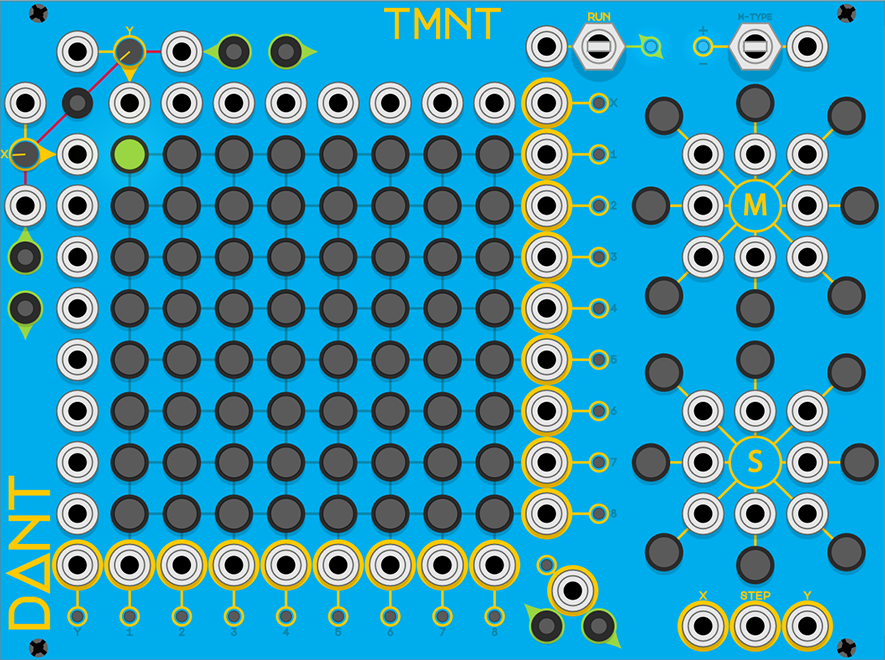
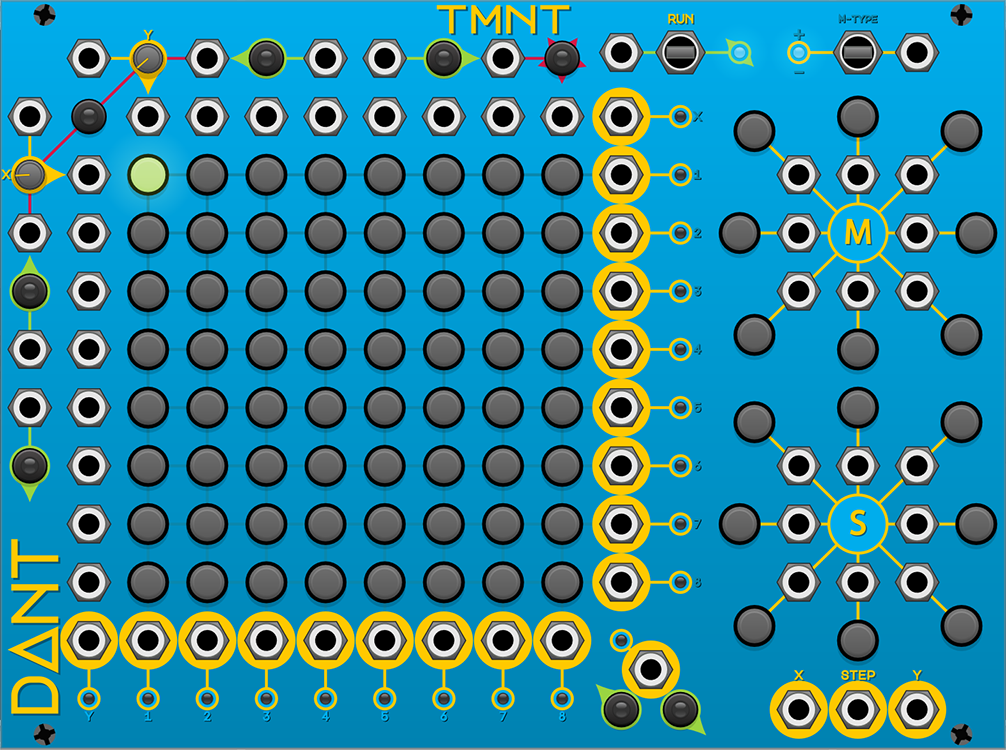
VCV Rack 2 docs update

diff --git a/billyg8s.md b/billyg8s.md
@@ -1,0 +1,36 @@
+# Billy G8s
+
+* [Overview](#overview)
+* [Basic Operation](#basic-operation)
+
+## Overview
+
+**10hp**
+
+Billy G8s is a 5 channel gate generator.
+
+![Billy G8s](img/billyg8s.png)
+
+## Basic Operation
+
+Send any signal to the channel inputs, the inputs are normalised down (so channels with no input will receive the input from the channel above).
+
+Use the **Threshold parameter** to set the value above which gates are generated. The default is `0.1 volts`.
+
+The voltage of the output gates will be the **Level parameter** `+` **Offset parameter**. Setting a negative Level and a positive Offset will created inverted gates for example.
+
+Each channel has a **Length parameter** which controls the length of the gate generated in samples. For example, at a sample rate of `44.1 kHz` the default parameter value of `4410 samples` would generate gates of `100 milliseconds`.
+
+Each channel has a **Slope Length** & **Slope Shape** parameter. These control the edges of the gate, increasing the slope length will create a pseudo-envelope, that is symmetrical when the gate length is greater or equal to the slope length.
+
+The length of a gate covers the start slope, but not the end slope. A gate is considered `active` during the start slope and length only. So the total gate length is equal to the gate length `+` the slope length.
+
+Each channel has an End Trigger input, when this receives a signal above `0 volts` it will end any currently active gate being generated by that channel.
+
+If the slope length is greater than the slope length, or the gate is ended early, the start slope will be truncated, the gate will jump to the level parameter value, then follow the end slope.
+
+When a gate ends, if the input signal remains above the threshold value, a new gate will begin immediately. Note: with small Slope Lengths, this gap between gates will be inaudible.
+
+The shape of the slope will be linear at `0 volts`, tend towards exponential at `-1 volt` and tend towards logarithmic at `1 volt`.
+
+The **AND** output will generate a gate when all channels have an active gate, the **OR** output will generate a gate when at least one channel has an active gate. The **AND** & **OR** output gates do not have slopes.

diff --git a/CHANGELOG.md b/CHANGELOG.md
@@ -1,5 +1,32 @@
 # DanTModules Changelog
 
+## 2.3.0 **VCV Rack 2 Update**
+* **NEW MODULES!**
+  * **pKorre** CV source based on correlation between two signals
+  * **Kanal** Waveshaper
+  * **Bily G8s** Gates Generator
+* **Visual Updates** New panels, knobs & port designs for V2
+* **Right-click menus updated**
+  * All modules now have a CV Param Mode menu option
+    * `Offset` The CV value will be added to the param value
+    * `Follow` The param will change automatically to the CV value
+    * `Attenuate` The CV value will be attenuated by the param control, if the param is bi-polar then the value will be attenuverted
+  * All modules except 5Splice now have a Clamp CV Values menu option
+    * When active, this will ensure that CV values are restricted to within the params normal operating interval (ie. the minimum and maximum values of the param control)
+    * Deactivating this option might reduce the modules CPU usage, but means that extraordinary CV values (typically < -5 volts & > 10 volts) can cause param values to exceed their normal operating interval, which can both be intended (for example making a BPM param on the TMNT module exceed 1000) and cause unintended effects, or worst case potentially cause other modules to function incorrectly
+* **WAVULIKE**
+  * Added factory presets
+  * Frequency read-out in context menu fixed to 3 decimal places
+  * **New Feature**: Auto-Duck. When active (on by default) will duck the internal VCA for a few milliseconds when the number of active points changes. This ensures there is no audible click when the waveform changes shape.
+* **TMNT**
+  * New switch graphics
+  * Added CV inputs to trigger manual X & Y steps forwards & backwards
+  * Added a button & CV input to just randomise the steps
+  * Added factory presets
+* **5Splice**
+  * Added example slew presets
+  * Increased maximum window slew time possible
+
 ## 1.2.3 **The Legibility Update**
 
 * **Visual Updates**

diff --git a/pkorre.md b/pkorre.md
@@ -1,0 +1,32 @@
+# pKorre
+
+* [Overview](#overview)
+* [Basic Operation](#basic-operation)
+
+## Overview
+
+**6hp**
+
+pKorre is a phase correlation meter and CV generator.
+
+![pKorre](img/pkorre.png)
+
+## Basic Operation
+
+This module will compare two signals and generate a CV signal based on the correlation between them.
+
+The correlation is basically a measure of how similar the two signals are over a specific window of time.
+
+Send the two signals that you want to compare to the **A** and **B** inputs.
+
+The **WIN Parameter** controls the length of time during which the signals are compared, in samples. Smaller sample windows will work better for audio rate signals, but longer windows may give interesting results or work better for LFO type signals.
+
+The LED meter will show a visual representation of the calculated correlation and a CV signal representing the correlation will be output at **COR**.
+
+A positive correlation will occur when the two waveforms trend in the same direction on average during the window, whereas a negative signal will occur when the two waveforms trend opposite on average during the window.
+
+The **INV** output will have the inverted correlation signal.
+
+Both the **COR** and **INV** outputs can be attenuated by the **\* Parameter** and offset by the **± Parameter**.
+
+The EOW output will fire a trigger at the end of each comparison window.

diff --git a/kanal.md b/kanal.md
@@ -1,0 +1,28 @@
+# Kanal
+
+* [Overview](#overview)
+* [Basic Operation](#basic-operation)
+
+## Overview
+
+**6hp**
+
+Kanal is a waveshaper that works by sculpting a *canal* out of the middle of a waveform.
+
+![Kanal](img/kanal.png)
+
+## Basic Operation
+
+Send a signal to the input. The **ATT Parameter** applies gain to the signal (`-2x` to `2x`).
+
+The **P Parameter** controls the position of the center of the canal (`-2.5 volts` to `2.5 volts`).
+
+The **W Parameter** controls the width of the canal (`0` no effect, to `5 volts` from the bottom to the top of the canal).
+
+The **TB Parameter** controls the amount of *Top Boost*, this is a multiplier applied to the waveform above the canal. Negative values will invert the waveform back into the canal.
+
+The **BB Parameter** controls the amount of *Bottom Boost*, this is a multiplier applied to the waveform below the canal. Negative values will invert the waveform back into the canal.
+
+The shaped waveform is sent to the OUT output.
+
+The X-0 output will fire a trigger when the input signal crosses `0 volts`.

diff --git a/README.md b/README.md
@@ -1,10 +1,10 @@
-# DanTModules v1.2.2
+# DanTModules v2.3.0
 
-![WAVULIKE](img/dantmodules.png)
+![DanTModules](img/dantmodules.png)
 
 ## Overview
 
-This [plugin](https://library.vcvrack.com/DanTModules/) contains free modules for VCV Rack developed by [DanT](https://www.dtilley.co.uk).
+This [plugin](https://library.vcvrack.com/DanTModules/) contains free modules for VCV Rack 2 developed by [DanT](https://www.dtilley.co.uk).
 
 If you encounter any bugs or issues with this plugin or its modules, please raise an [issue](https://github.com/Miff-Real/DanTModules-Manual/issues) in this GitHub repository.
 
@@ -16,5 +16,7 @@ If you feel generous or want to motivate me to further develop this plugin, you 
 
 * [WAVULIKE](wavulike.md)
 * [TMNT](tmnt.md)
-  * [Alt TMNT documentation PDF](tmnt.pdf) generously created by the most excellent [Worker 13](https://community.vcvrack.com/u/worker_13/summary)
 * [5Splice](5splice.md)
+* [pKorre](pkorre.md)
+* [Kanal](kanal.md)
+* [Billy G8s](billyg8s.md)

diff --git a/wavulike.md b/wavulike.md
@@ -17,7 +17,7 @@
 
 WAVULIKE is an oscillator that is based on a waveform generated by `1` to `6` control points (labeled `A` to `F`).
 
-![WAVULIKE Annotated](img/wavulike-annotated-by-heurihermilab.png)
+![WAVULIKE](img/wavulike.png)
 
 The components of the module are (top to bottom, left to right):
 

diff --git a/tmnt.md b/tmnt.md
@@ -1,5 +1,7 @@
 # TMNT
 
+* [Alt TMNT documentation PDF](tmnt.pdf) generously created by the most excellent [Worker 13](https://community.vcvrack.com/u/worker_13/summary)
+
 * [Overview](#overview)
 * [Basic Operation](#basic-operation)
 * [Run Modes](#run-modes)

diff --git a/5splice.md b/5splice.md
@@ -13,7 +13,7 @@
 
 5Splice is a "window mixer" with up to 5 inputs, 6 different modes, an internal slew and a window signal output.
 
-![TMNT](img/5splice.png)
+![5Splice](img/5splice.png)
 
 The components of the module are (top to bottom, left to right):
 
